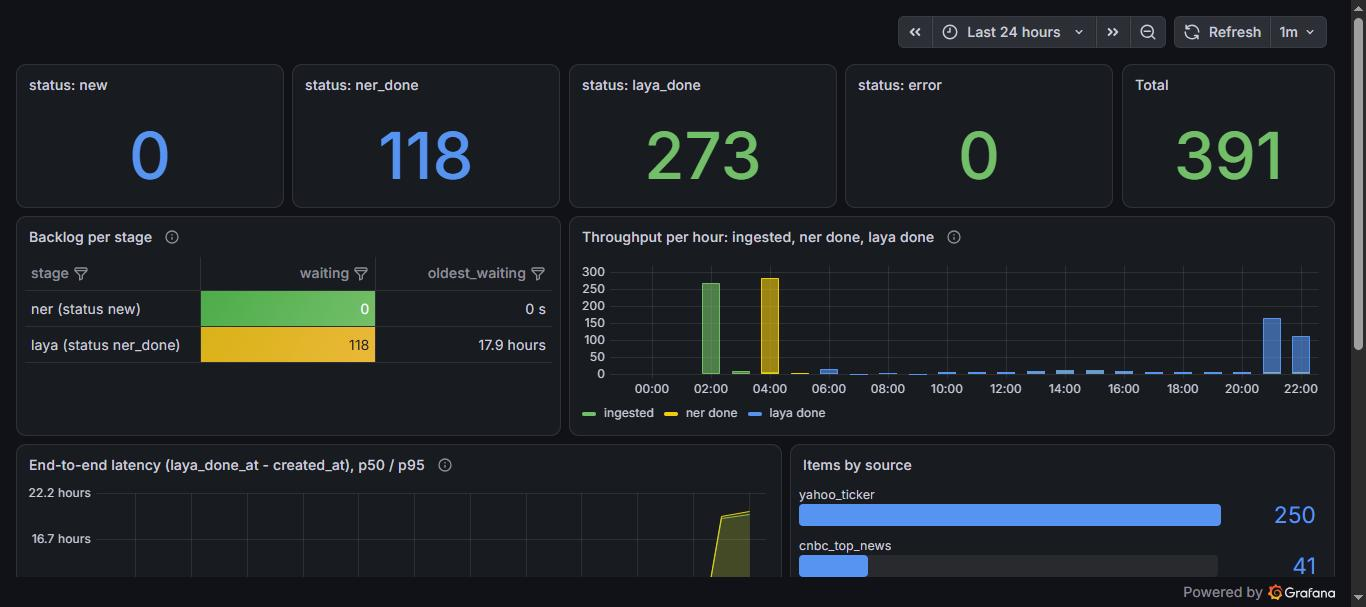
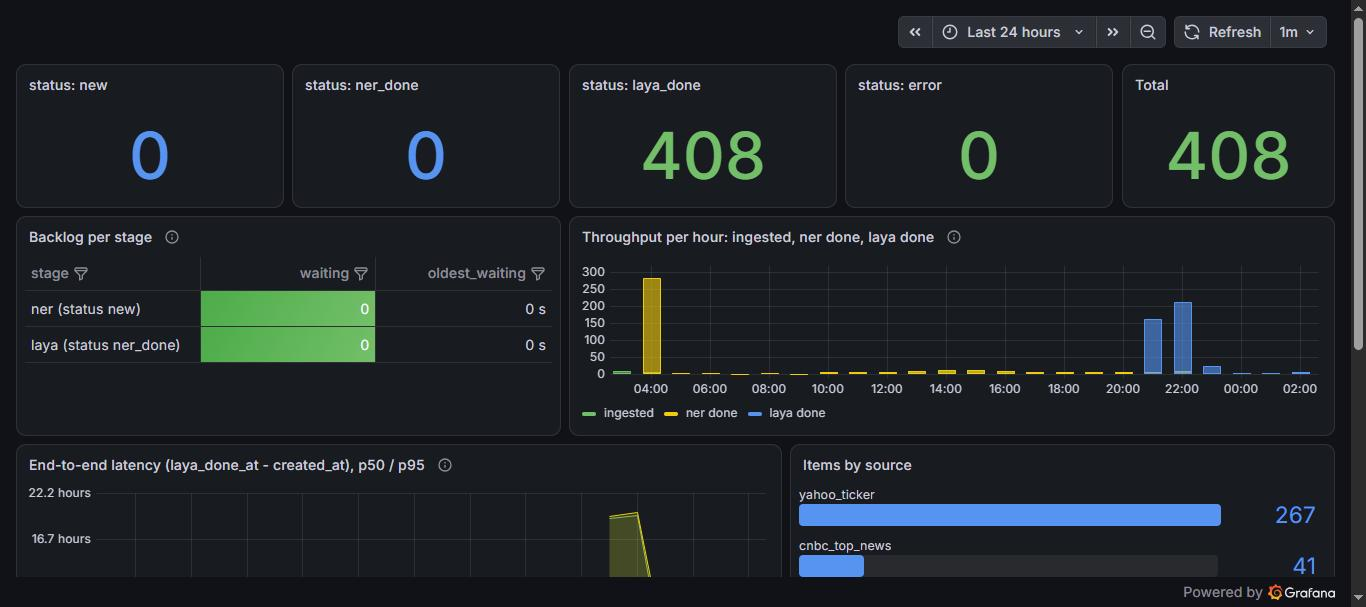
chore: retire the manual image import flow (#30)
Retires the manual image import flow (scripts/ship.sh, make push) now that releases are published to GHCR and deployed from there; the runbook describes deploying a released version with an optional pre-pull; documents the repository settings and the release-tag ruleset; retakes the README dashboard screenshot (closes #4).

diff --git a/CLAUDE.md b/CLAUDE.md
@@ -16,7 +16,7 @@ Guidance for AI coding assistants working in this repo (humans: see `README.md` 
 - **Develop locally, deploy on the cluster.** Write and test code on the dev machine (Docker, local Postgres via `docker-compose.yml`). The cluster is only for deploys and verification. Never run dev work against cluster data.
 - **Namespaces:** `tickertape` (workloads) and `monitoring` (Prometheus/Grafana, Helm release `kps`). Don't touch `kube-system` or `tools`. Change `monitoring` only through `k8s/monitoring/values.yaml` + `make monitoring-install` (and `scripts/apply-dashboards.sh`), with admin kubectl, after asking.
 - **Ask before any cluster state change** (apply, delete, restart, rollout, Helm upgrade, secret changes, image import). Approval covers that one deploy, not later ones. Read-only `kubectl get/describe/logs` and client-side dry-runs are fine. Read-only checks over SSH are fine; changes need approval.
-- **Images:** explicit version tags (never `latest`) set in `charts/tickertape/values.yaml`, and `imagePullPolicy: IfNotPresent`. Until the registry flow ships (see GitHub Issues): build locally (`scripts/build.sh`), ship with `docker save` + `scp` + `sudo k3s ctr images import` (`scripts/ship.sh`); the import needs a sudo password and a real TTY, so tell the user to run `make push SVC=<svc>` in their own terminal.
+- **Images:** explicit version tags (never `latest`), pinned per service in `charts/tickertape/values.yaml`, `imagePullPolicy: IfNotPresent`. Images are built by the release workflow from a `<service>-vX.Y.Z` tag and pulled by the node from GHCR (`docs/releasing.md`); there is no manual import path. Unreleased code is tested locally with docker compose, not on the cluster.
 - **Deploys are Helm:** the `tickertape` namespace is the chart `charts/tickertape`, deployed with `make deploy` (`scripts/deploy.sh`, `helm upgrade --install --atomic` as the `deployer` account through `scripts/helm.sh`). Validate chart changes with `make chart-check`. Do not `kubectl apply` workload manifests by hand once the release is adopted. Namespace, RBAC and Secrets stay outside the chart.
 - **kubectl access:** day-to-day work uses `scripts/kc.sh`, which runs local `kubectl` as the namespace-scoped `deployer` ServiceAccount (`k8s/rbac.yaml`, kubeconfig `~/.kube/tickertape`, created by `make bootstrap`). It manages workloads in `tickertape` only and cannot use the `scale` subresource: to stop or start a Deployment use `kc.sh patch deployment/<name> -n tickertape --type=merge -p '{"spec":{"replicas":N}}'`. For cluster-scoped work (namespace, RBAC, Helm/CRDs such as kube-prometheus-stack) use `scripts/kc-admin.sh` (SSH + admin kubeconfig) and ask first. Never print or read `~/.kube/tickertape` (no `kubectl config view --raw`), and never put its token in the repo.
 - **Web UIs must be reachable from the user's other devices without a tunnel or per-device setup.** Port-forward / `localhost` is a debugging aid only. Expose every UI with its own NodePort Service (separate from the ClusterIP Service that carries `/metrics`) so it opens at `http://<node>:<port>`. Ports: uptime-kuma 30001, **ner 30002**, **laya 30003**, **grafana 30004**. The Traefik Ingress hosts (`ner.local`, ...) stay as an extra. After deploying a UI, verify it with `curl` and give the user the URL. The ner and laya UIs have no authentication and Grafana allows anonymous read-only viewing: never expose any of them to the internet (no router port-forwarding).

diff --git a/docs/releasing.md b/docs/releasing.md
@@ -61,15 +61,22 @@ Running the workflow manually (Actions, "Release", Run workflow, pick a componen
 
 ## One-time setup
 
-- **Make each package public.** GHCR creates a package as private the first time it is pushed. After the first release of each service (`tickertape-poller`, `tickertape-ner`, `tickertape-laya`): GitHub profile, Packages, the package, Package settings, Change visibility, Public. The anonymous pull check fails with exactly this instruction until it is done; after changing the setting, re-run that job and the release continues. Once public, a cluster pulls the images without any Secret.
+- **Package visibility.** Clusters pull the images anonymously, so each package (`tickertape-poller`, `tickertape-ner`, `tickertape-laya`) must be public. For this repository GHCR made them public on their own, because the packages are linked to the public repository through the image's source label, and the workflow's anonymous pull check confirms it on every release. If a package ever shows up as private (a fork, or a changed setting), the check fails with the fix: GitHub profile, Packages, the package, Package settings, Change visibility, Public; then re-run that job and the release continues.
+
+## Repository settings this relies on
+
+These live in GitHub, not in the repository, so they are listed here:
+
+- **`main` is protected:** pull requests only, the `CI passed` check must be green and the branch up to date, no force pushes or deletion, linear history, conversations resolved, rules apply to admins. Only squash merging is enabled, with branches deleted after merge.
+- **Release tags are immutable:** the ruleset "Release tags are immutable" blocks deleting and moving any tag matching `poller-v*`, `ner-v*`, `laya-v*` or `chart-v*`, with no bypass (so a careless `git push -f` cannot move a published version). Creating tags is not restricted.
 
 ## When something fails
 
 | Where it failed | What to do |
 |---|---|
-| **Verify** (tag format, version file, changelog, not on main, CI not green) | Nothing was published. Delete the tag (`git push origin :refs/tags/<tag>` and `git tag -d <tag>`), fix it in a PR, and tag again. |
+| **Verify** (tag format, version file, changelog, not on main, CI not green) | Nothing was published. Delete the tag, fix it in a PR, and tag again. The tag ruleset forbids deleting release tags, so disable it for a moment, delete the tag, and re-enable it: `gh api -X PUT repos/<owner>/tickertape/rulesets/<id> -f enforcement=disabled`, then `git push origin :refs/tags/<tag>` and `git tag -d <tag>`, then `-f enforcement=active` (the id is in Settings, Rules, Rulesets). Only do this for a tag whose workflow failed before publishing. |
 | **Image build**, or **chart pin check** | Nothing was published for that component. Fix the cause and re-run the failed job, or delete the tag and start over if the fix needs a new commit. |
-| **Anonymous pull check** | Make the package public (above) and re-run the job. |
+| **Anonymous pull check** | The package is private: make it public (see "Package visibility") and re-run the job. |
 | **After an image was pushed** (release creation failed, or a bug found) | Do not move or reuse the tag: its image exists and may have been pulled. Re-run the failed job if it is only the release step; otherwise fix forward with the next patch version. |
 
 ## Rolling back a deployment

diff --git a/docs/operations.md b/docs/operations.md
@@ -87,13 +87,21 @@ read -s HF_READ_TOKEN; export HF_READ_TOKEN; scripts/create-hf-secret.sh; unset 
 
 Create Secrets before upgrading a release that references them: ner and laya use the `Recreate` strategy, so a missing Secret leaves the old pod stopped and the new one unable to start.
 
-## Releasing a new version of a service
+## Deploying a new version of a service
 
-Published releases (images on GHCR, one version per service, pinned by the chart) are described in [releasing.md](releasing.md). Until the first ones are published, or to try unreleased code, use the local flow, which deploys a locally built image by pointing the chart at it:
+Each service and the chart are released separately ([releasing.md](releasing.md)). To get a change onto the cluster:
 
-1. Change the code, build with a **new** tag (`make build SVC=laya TAG=0.1.2-dev`) and import it (`make push SVC=laya TAG=0.1.2-dev`). Tags are explicit and never `latest`, and `imagePullPolicy` is `IfNotPresent`, so an existing tag would not be re-pulled.
-2. Point the chart at the local image for this one deploy (or edit `values.yaml`): `make deploy HELM_ARGS="--set laya.image.repository=tickertape/laya --set laya.image.tag=0.1.2-dev"`. Only that service restarts.
-3. `make deploy` and watch `scripts/kc.sh rollout status deployment/laya -n tickertape`.
+1. **Release the service**: version bump and changelog in a PR, merge, push the `<service>-vX.Y.Z` tag. The release workflow publishes the image to GHCR.
+2. **Release the chart** with the new pin: `values.yaml` (`<service>.image.tag`), the chart version and the changelog in a PR, merge, push the `chart-vX.Y.Z` tag.
+3. **Optionally pre-pull** the new image so the pause is only the model load. ner and laya use the `Recreate` strategy, so the old pod stops before the new one pulls its image, and the pull (about 70 s for each of them) is added to the pause. A throwaway pod caches the image on the node without touching the running pods:
+   ```sh
+   scripts/kc.sh run prepull-ner -n tickertape --image=ghcr.io/<owner>/tickertape-ner:0.2.0 --restart=Never --command -- true
+   scripts/kc.sh wait --for=jsonpath='{.status.phase}'=Succeeded pod/prepull-ner -n tickertape --timeout=10m
+   scripts/kc.sh delete pod prepull-ner -n tickertape
+   ```
+4. **Deploy** from the chart tag's checkout: `git switch --detach chart-vX.Y.Z && make deploy`. Only the services whose pin changed restart. Watch with `scripts/kc.sh rollout status deployment/<service> -n tickertape`.
+
+Unreleased code is tried locally with docker compose ([development.md](development.md)); it is not deployed to the cluster.
 
 ner and laya reload their model on every start (about a minute), during which that stage pauses; items wait in Postgres and nothing is lost. To undo a bad release: `scripts/helm.sh rollback tickertape` (to the previous revision) or `scripts/helm.sh history tickertape` and `rollback tickertape <revision>`.
 

diff --git a/docs/decisions.md b/docs/decisions.md
@@ -52,7 +52,7 @@ Swapping the model should overwrite old answers per `(item, question)`, and `mod
 
 **Every UI gets its own NodePort Service, separate from the ClusterIP Service that carries metrics.** The UIs must open from any device on the private network without a tunnel or per-device setup. They have no authentication, so they stay on a private network.
 
-**Images use explicit version tags and `imagePullPolicy: IfNotPresent`.** Mutable tags and `latest` make a rollout depend on what the node cached. Until a registry exists, images are built locally and imported into k3s.
+**Images use explicit version tags and `imagePullPolicy: IfNotPresent`.** Mutable tags and `latest` make a rollout depend on what the node cached. Images come from the registry only (see Releases); the early flow of building locally and importing into k3s by hand (`docker save`, `scp`, `sudo k3s ctr images import`) was retired once the release workflow had published and deployed the first versions, because it needed a sudo password and a terminal, and produced images nobody else could reproduce.
 
 **laya has a CPU limit of 2 cores and matching thread counts.** Uncapped it took 3.5 of the node's 4 cores and starved everything else. Torch threads must match the limit or they are throttled.
 
@@ -103,6 +103,8 @@ Swapping the model should overwrite old answers per `(item, question)`, and `mod
 **GHCR images are public.** The GitHub token publishes without extra credentials, and a cluster pulls without a Secret. A new package starts out private, so the workflow fails with the exact click path instead of publishing something no cluster can pull.
 
 **`linux/amd64` only.** That is the only architecture in use; adding arm64 would double the build time of the ML images.
+
+**Release tags are protected by a ruleset with no bypass.** A published version must never change, and the realistic way to break that is a careless force push or tag deletion by the one person with access. Blocking deletion and updates for the four tag patterns makes that impossible by accident. The price is that recovering from a release that failed before publishing means disabling the ruleset for a minute, which is deliberate friction. The protection was tested on a throwaway tag (a delete and a move were both rejected) before it was trusted.
 
 ## Release engineering (in progress)
 
